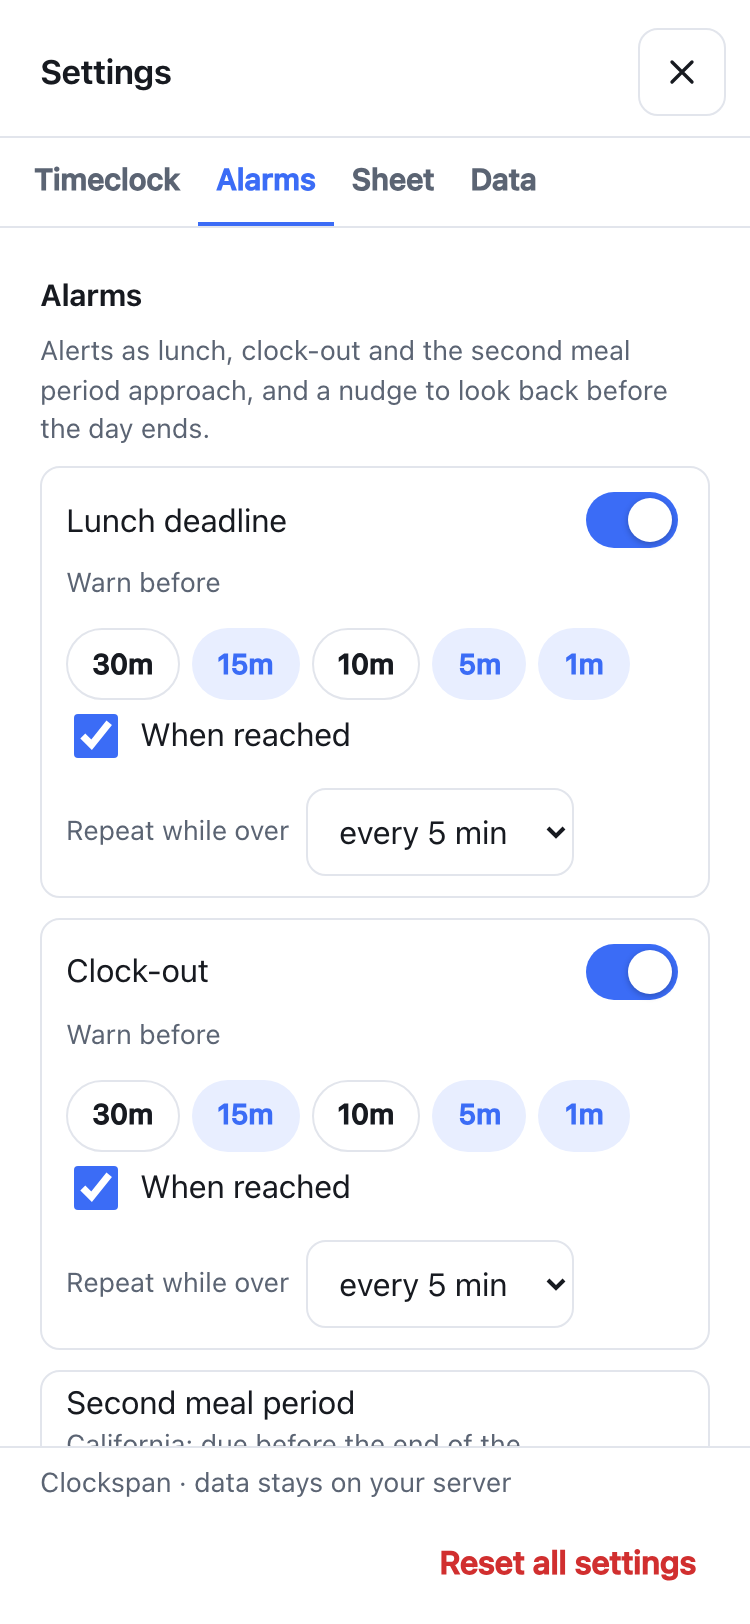
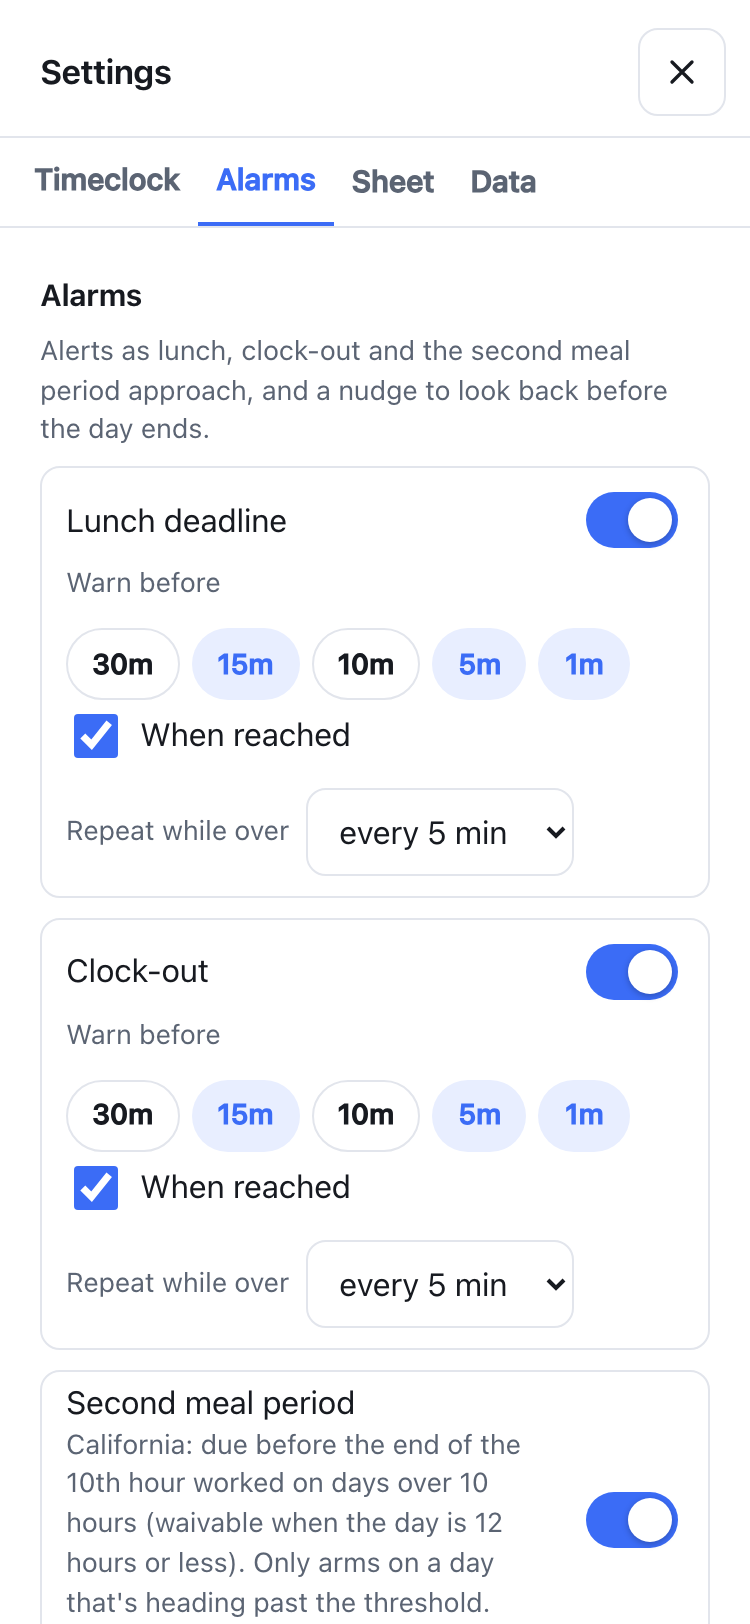
Move Reset all settings to the Data tab (#68)
The settings dialog's footer held **Reset all settings** and the
"Clockspan · data stays on your server" line on every tab. On a phone
that was about 100 px under content that scrolls, and a destructive
button one tap away from any tab.

- The reset is now a **Reset** section at the bottom of the **Data**
tab, with the same confirm and a hint (`RESET_SETTINGS.hint` in
`copy.ts`). The line about the data sits under it.
- The footer is gone. `.dialog-body:last-child` now carries the bottom
safe-area inset, so the body still clears the iPhone home indicator. The
"How much to log?" dialog keeps its footer and its inset there, so it
doesn't get the inset twice.
- The README's Settings paragraph says where the reset now lives.

**Verified** at 375 px on seeded data:
- None of the four tabs has a footer, and the scrolling tabs get 698 px
of body on an 812 px screen.
- The reset button appears only on Data. With the confirm answered
Cancel, nothing is saved.
- Screenshots: `settings-alarms.png` and `settings-data.png` regenerated
and committed. The others changed only by date drift and were reverted.
- `test:coverage`, `typecheck`, `lint` and `format:check` all pass.

🤖 Generated with [Claude Code](https://claude.com/claude-code)

Changed region(s): [[0.0307, 0.8929, 0.9507, 1.0], [0.46, 0.0924, 0.5827, 0.1232], [0.644, 0.0924, 0.7053, 0.1232]]

diff --git a/client/src/components/SettingsDialog.tsx b/client/src/components/SettingsDialog.tsx
@@ -200,6 +200,14 @@ export function SettingsDialog({ onClose }: { onClose: () => void }) {
               />
             </Section>
             <DeleteOldDays />
+            <Section title="Reset" hint={RESET_SETTINGS.hint}>
+              <div>
+                <button className="btn btn-ghost btn-danger-text" onClick={onReset}>
+                  {RESET_SETTINGS.button}
+                </button>
+              </div>
+            </Section>
+            <p className="muted small">Clockspan · data stays on your server</p>
           </>
         );
       case 'account':
@@ -251,12 +259,6 @@ export function SettingsDialog({ onClose }: { onClose: () => void }) {
           {saveState === 'failed' && <p className="notice notice--danger">{SAVE_STATUS.failedDetail}</p>}
           {panel()}
         </div>
-        <footer className="dialog-foot">
-          <span className="muted small">Clockspan · data stays on your server</span>
-          <button className="btn btn-ghost btn-danger-text" onClick={onReset}>
-            {RESET_SETTINGS.button}
-          </button>
-        </footer>
       </div>
     </dialog>
   );

diff --git a/client/src/lib/copy.ts b/client/src/lib/copy.ts
@@ -186,6 +186,7 @@ export const SAVE_STATUS = {
 /** Settings dialog footer: the button and the confirm before every setting goes back to default. */
 export const RESET_SETTINGS = {
   button: 'Reset all settings',
+  hint: 'Every setting goes back to its default. Days, punches and sessions are kept.',
   confirm: 'Reset every setting to its default? Days, punches and sessions are kept.',
 } as const;
 

diff --git a/client/src/styles.css b/client/src/styles.css
@@ -1936,6 +1936,10 @@ dialog.dialog::backdrop {
   flex-direction: column;
   gap: 8px;
 }
+/* A dialog without a footer (settings): the body clears the home indicator itself. */
+.dialog-body:last-child {
+  padding-bottom: calc(24px + var(--safe-bottom));
+}
 /* Pinned under the scrolling body; carries the home-indicator inset on phones. */
 .dialog-foot {
   flex: none;

diff --git a/README.md b/README.md
@@ -240,7 +240,7 @@ sqlite3 /path/on/host/focus.db \
   - **About the defaults.** Lunch within 5 hours, a second meal period after 10 hours worked, and keeping meal alarms on during approved overtime all follow California labor rules, because that's where the author works. Other states and countries differ. Everything is adjustable in Settings, and pull requests that add presets or rules for other places are welcome.
 - **Sticker chart.** Off by default: turn it on under *Settings → Sheet → History*. Every day on the History calendar then wears a sticker for each thing it did (clocked out, lunch taken, all priorities done, a focus session logged, retrospective reviewed) instead of its hours, with the month's count on top and a day that earned all five picked out. The legend chips count each kind; tap one to show only that sticker, tap again for all of them. Today updates as you go. Hover a sticker for what it was for.
 - **Layout.** Tap **Customize** to drag cards (long-press on phones), use ▲/▼, or hide a card. Hidden cards appear in a strip at the bottom while customizing. *Settings → Sheet → Layout → Reset to default* restores everything.
-- **Settings.** Five tabs: *Timeclock* (day length, lunch, second meal, time format, overtime approval), *Alarms* (per-alarm rules, sound, notifications, a sound per event with a Test button), *Sheet* (priorities, timer, celebrations, the sticker chart and weekends on the calendar, layout), *Data* (old-day cleanup) and *Account* (local accounts only). **Reset all settings** in the dialog footer puts every setting back to its default; days, punches and sessions are untouched.
+- **Settings.** Five tabs: *Timeclock* (day length, lunch, second meal, time format, overtime approval), *Alarms* (per-alarm rules, sound, notifications, a sound per event with a Test button), *Sheet* (priorities, timer, celebrations, the sticker chart and weekends on the calendar, layout), *Data* (old-day cleanup) and *Account* (local accounts only). **Reset all settings**, at the bottom of *Data*, puts every setting back to its default; days, punches and sessions are untouched.
 - **Data.** Settings → Data. *Delete old days automatically* keeps the last N days (30 to 3650) and drops the rest, with their punches, priorities, sessions and notes; the server checks every few hours. *Delete days before* a date does the same once, after showing how many days it will remove. Today and a day with a running timer are never deleted; settings are kept. If the admin set `RETENTION_DAYS`, the tab says so and that ceiling applies whatever you choose.
 - **Past days.** Use ◀ ▶ or the date picker on the sheet, or **History** → **Days**: a month calendar (step back with ◀) with the hours worked on each day. Tap a day to see its worked, focused and priorities numbers, a tick once its retrospective is reviewed, and its note; **Open day** goes to that sheet and **Review this week** to that week's review. Only work here? *Settings → Sheet → History → Show weekends* off drops Saturday and Sunday from the calendar (and from the sticker counts); a weekend day is still reachable from the sheet's date picker. Past days are editable; timers can only start on today.
 - **Phone.** Add to Home Screen (Android: *Install app*; iOS: Share → *Add to Home Screen*). Browser notifications on iOS only work from the installed app. *Keep screen awake* keeps the countdown and chime live while the app is open; if the phone sleeps anyway, the alert fires when you come back.
